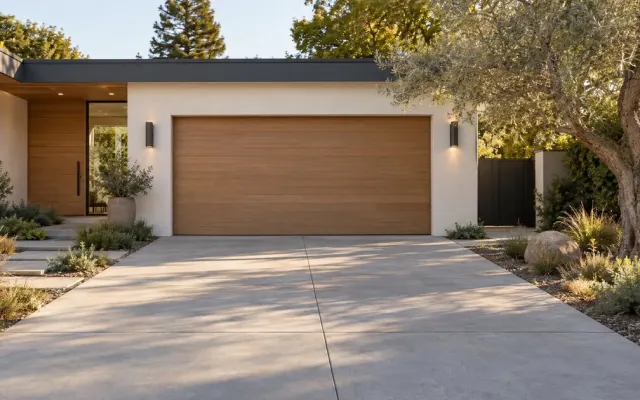
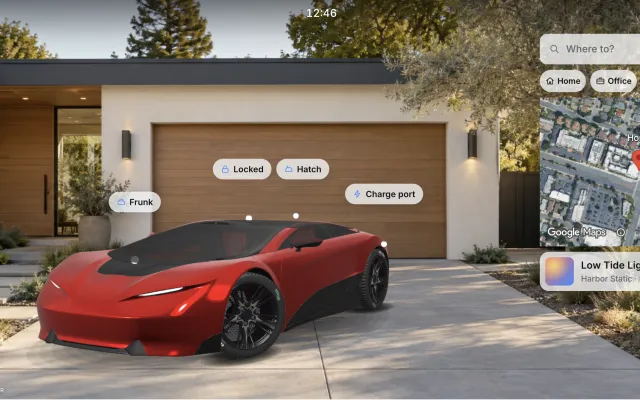
samples page: Ride thumbnail from a live capture (car + controls), not the social card

diff --git a/index.html b/index.html
@@ -74,7 +74,7 @@
     </div>
   </div>
 <div class="card feature show">
-    <a class="shot" href="https://displayxr-ride.vercel.app"><img src="img/showcase/ride.webp" alt="A sunlit house and driveway, the destination scene in DisplayXR Ride" width="640" height="400" loading="lazy"></a>
+    <a class="shot" href="https://displayxr-ride.vercel.app"><img src="img/showcase/ride.webp" alt="DisplayXR Ride: a red car in a sunlit driveway with its frunk, hatch and charge-port controls" width="640" height="400" loading="lazy"></a>
     <div class="body">
     <p class="kind">In-car</p>
     <h2><a href="https://displayxr-ride.vercel.app">DisplayXR Ride</a></h2>
